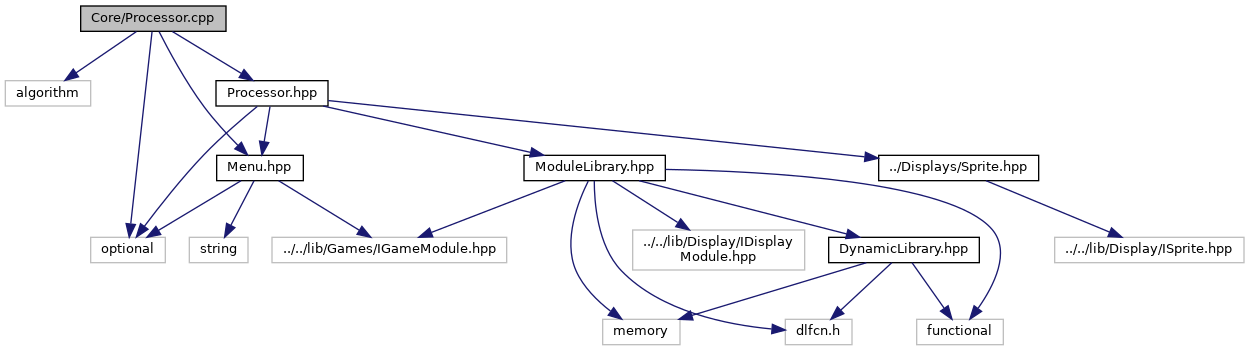
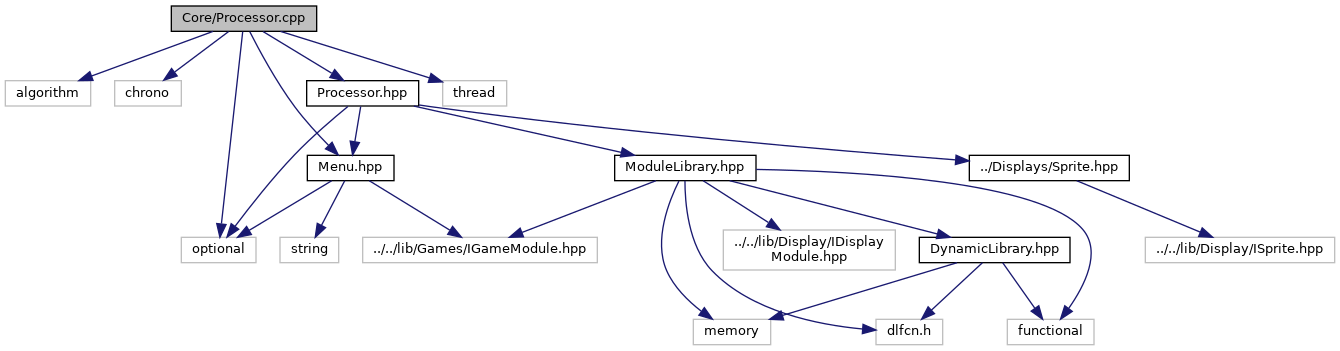
Deploying to gh-pages from @ ThibautHH/Arcade@0f1cc9848251ae9ec092f64ddb130833aec4a23e 🚀

diff --git a/docs/main/html/d6/d69/Processor_8cpp.html b/docs/main/html/d6/d69/Processor_8cpp.html
@@ -73,7 +73,9 @@ $(function() {
 </div><!--header-->
 <div class="contents">
 <div class="textblock"><code>#include &lt;algorithm&gt;</code><br />
+<code>#include &lt;chrono&gt;</code><br />
 <code>#include &lt;optional&gt;</code><br />
+<code>#include &lt;thread&gt;</code><br />
 <code>#include &quot;<a class="el" href="../../dd/df6/Menu_8hpp_source.html">Menu.hpp</a>&quot;</code><br />
 <code>#include &quot;<a class="el" href="../../de/db1/Processor_8hpp_source.html">Processor.hpp</a>&quot;</code><br />
 </div><div class="textblock"><div class="dynheader">
@@ -81,21 +83,23 @@ Include dependency graph for Processor.cpp:</div>
 <div class="dyncontent">
 <div class="center"><img src="../../d0/dc1/Processor_8cpp__incl.png" border="0" usemap="#aCore_2Processor_8cpp" alt=""/></div>
 <map name="aCore_2Processor_8cpp" id="aCore_2Processor_8cpp">
-<area shape="rect" title=" " alt="" coords="81,5,226,32"/>
+<area shape="rect" title=" " alt="" coords="171,5,317,32"/>
 <area shape="rect" title=" " alt="" coords="5,80,91,107"/>
-<area shape="rect" title=" " alt="" coords="91,237,165,263"/>
-<area shape="rect" href="../../dd/df6/Menu_8hpp.html" title=" " alt="" coords="217,155,303,181"/>
-<area shape="rect" href="../../de/db1/Processor_8hpp.html" title=" " alt="" coords="216,80,328,107"/>
-<area shape="rect" title=" " alt="" coords="189,237,248,263"/>
-<area shape="rect" title=" " alt="" coords="272,237,507,263"/>
-<area shape="rect" href="../../db/d31/ModuleLibrary_8hpp.html" title=" " alt="" coords="524,155,665,181"/>
-<area shape="rect" href="../../da/da5/Sprite_8hpp.html" title=" " alt="" coords="879,155,1039,181"/>
-<area shape="rect" title=" " alt="" coords="785,319,852,345"/>
-<area shape="rect" title=" " alt="" coords="917,319,1003,345"/>
-<area shape="rect" title=" " alt="" coords="603,319,680,345"/>
-<area shape="rect" title=" " alt="" coords="633,229,805,271"/>
-<area shape="rect" href="../../d4/d71/DynamicLibrary_8hpp.html" title=" " alt="" coords="829,237,979,263"/>
-<area shape="rect" title=" " alt="" coords="1055,237,1244,263"/>
+<area shape="rect" title=" " alt="" coords="115,80,181,107"/>
+<area shape="rect" title=" " alt="" coords="181,237,256,263"/>
+<area shape="rect" title=" " alt="" coords="443,80,507,107"/>
+<area shape="rect" href="../../dd/df6/Menu_8hpp.html" title=" " alt="" coords="307,155,394,181"/>
+<area shape="rect" href="../../de/db1/Processor_8hpp.html" title=" " alt="" coords="307,80,419,107"/>
+<area shape="rect" title=" " alt="" coords="280,237,339,263"/>
+<area shape="rect" title=" " alt="" coords="363,237,597,263"/>
+<area shape="rect" href="../../db/d31/ModuleLibrary_8hpp.html" title=" " alt="" coords="615,155,756,181"/>
+<area shape="rect" href="../../da/da5/Sprite_8hpp.html" title=" " alt="" coords="969,155,1129,181"/>
+<area shape="rect" title=" " alt="" coords="876,319,943,345"/>
+<area shape="rect" title=" " alt="" coords="1007,319,1094,345"/>
+<area shape="rect" title=" " alt="" coords="693,319,771,345"/>
+<area shape="rect" title=" " alt="" coords="723,229,895,271"/>
+<area shape="rect" href="../../d4/d71/DynamicLibrary_8hpp.html" title=" " alt="" coords="919,237,1070,263"/>
+<area shape="rect" title=" " alt="" coords="1145,237,1335,263"/>
 </map>
 </div>
 </div></div><!-- contents -->

diff --git a/docs/main/html/de/db1/Processor_8hpp_source.html b/docs/main/html/de/db1/Processor_8hpp_source.html
@@ -117,8 +117,8 @@ $(function() {
 <div class="ttc" id="aModuleLibrary_8hpp_html"><div class="ttname"><a href="../../db/d31/ModuleLibrary_8hpp.html">ModuleLibrary.hpp</a></div></div>
 <div class="ttc" id="aclassArcade_1_1Core_1_1ModuleLibrary_html"><div class="ttname"><a href="../../dd/df5/classArcade_1_1Core_1_1ModuleLibrary.html">Arcade::Core::ModuleLibrary&lt; Displays::IDisplayModule, ModuleLibrarySymbols::DisplaysSymbol &gt;</a></div></div>
 <div class="ttc" id="aclassArcade_1_1Core_1_1Processor_html"><div class="ttname"><a href="../../dd/d20/classArcade_1_1Core_1_1Processor.html">Arcade::Core::Processor</a></div><div class="ttdoc">Main class of the Core binary.</div><div class="ttdef"><b>Definition:</b> Processor.hpp:24</div></div>
-<div class="ttc" id="aclassArcade_1_1Core_1_1Processor_html_a073f5e9ea6a3557c217d67ab392e5852"><div class="ttname"><a href="../../dd/d20/classArcade_1_1Core_1_1Processor.html#a073f5e9ea6a3557c217d67ab392e5852">Arcade::Core::Processor::run</a></div><div class="ttdeci">void run()</div><div class="ttdoc">Start the Arcade core program logic.</div><div class="ttdef"><b>Definition:</b> Processor.cpp:118</div></div>
-<div class="ttc" id="aclassArcade_1_1Core_1_1Processor_html_a3c33c79849419e3fc251f6a17dbb6fd6"><div class="ttname"><a href="../../dd/d20/classArcade_1_1Core_1_1Processor.html#a3c33c79849419e3fc251f6a17dbb6fd6">Arcade::Core::Processor::Processor</a></div><div class="ttdeci">Processor(const char *path)</div><div class="ttdoc">Create a new Processor running an initial display module.</div><div class="ttdef"><b>Definition:</b> Processor.cpp:17</div></div>
+<div class="ttc" id="aclassArcade_1_1Core_1_1Processor_html_a073f5e9ea6a3557c217d67ab392e5852"><div class="ttname"><a href="../../dd/d20/classArcade_1_1Core_1_1Processor.html#a073f5e9ea6a3557c217d67ab392e5852">Arcade::Core::Processor::run</a></div><div class="ttdeci">void run()</div><div class="ttdoc">Start the Arcade core program logic.</div><div class="ttdef"><b>Definition:</b> Processor.cpp:122</div></div>
+<div class="ttc" id="aclassArcade_1_1Core_1_1Processor_html_a3c33c79849419e3fc251f6a17dbb6fd6"><div class="ttname"><a href="../../dd/d20/classArcade_1_1Core_1_1Processor.html#a3c33c79849419e3fc251f6a17dbb6fd6">Arcade::Core::Processor::Processor</a></div><div class="ttdeci">Processor(const char *path)</div><div class="ttdoc">Create a new Processor running an initial display module.</div><div class="ttdef"><b>Definition:</b> Processor.cpp:21</div></div>
 <div class="ttc" id="aclassArcade_1_1Displays_1_1Sprite_html"><div class="ttname"><a href="../../da/d1c/classArcade_1_1Displays_1_1Sprite.html">Arcade::Displays::Sprite</a></div><div class="ttdef"><b>Definition:</b> Sprite.hpp:14</div></div>
 <div class="ttc" id="amap_html"><div class="ttname"><a href="https://en.cppreference.com/w/cpp/container/map.html">std::map</a></div></div>
 <div class="ttc" id="anamespaceArcade_1_1Core_html"><div class="ttname"><a href="../../d1/d7d/namespaceArcade_1_1Core.html">Arcade::Core</a></div><div class="ttdef"><b>Definition:</b> DynamicLibrary.hpp:15</div></div>
